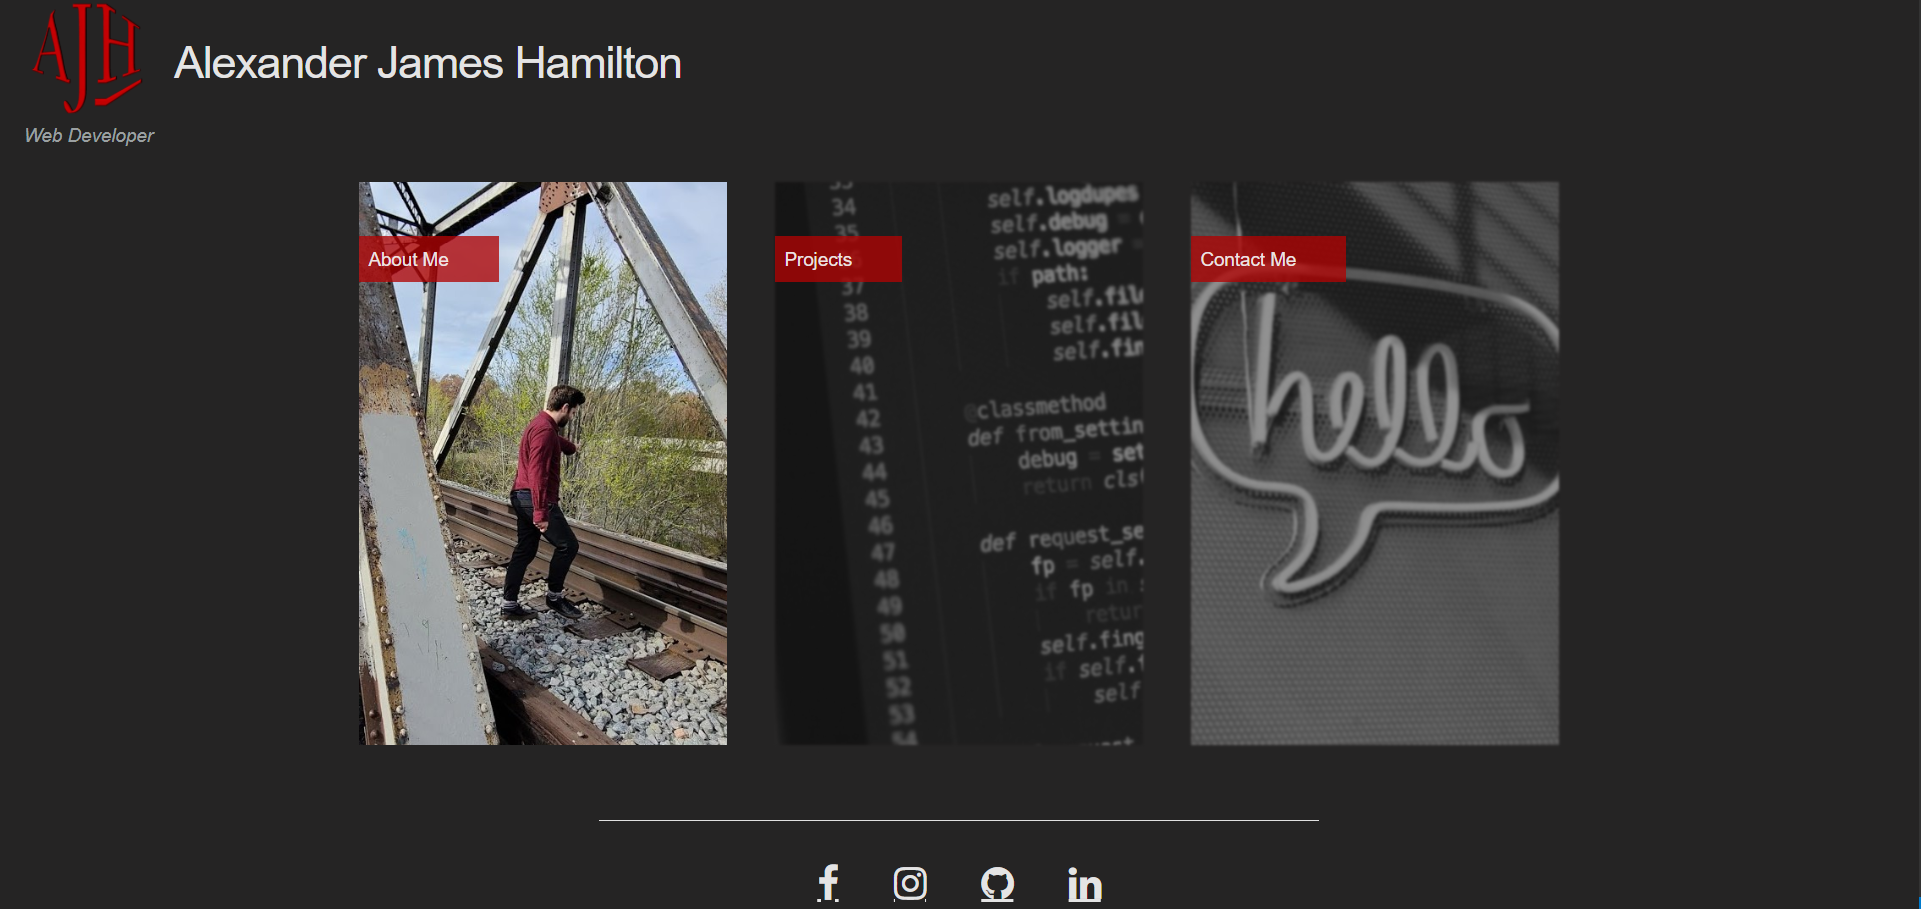
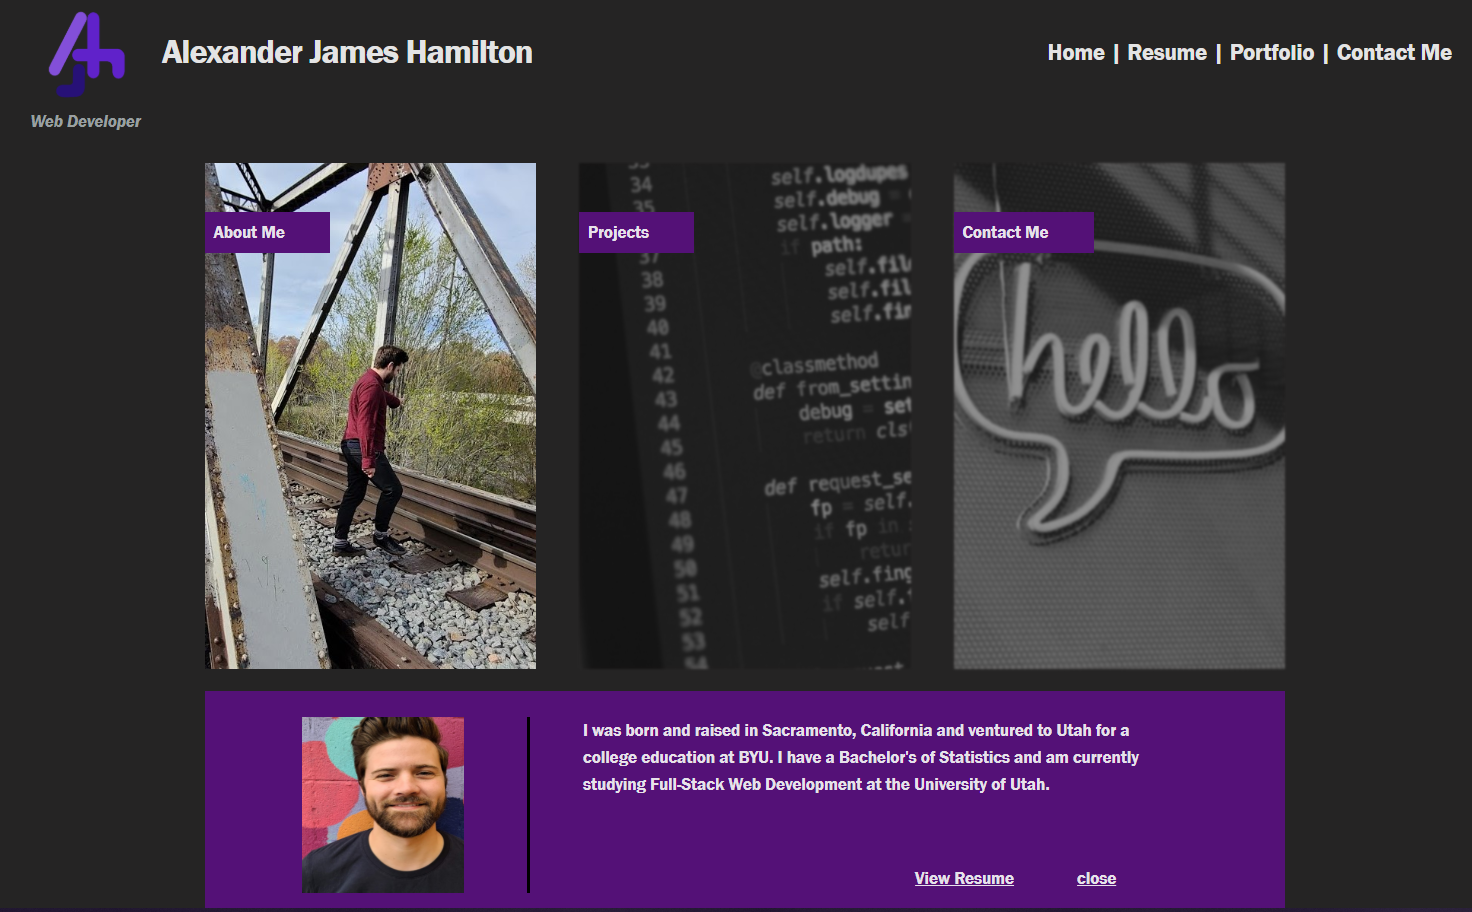
Completed portfolio page template and added css functionality. Routing fixed. Branding coloration adjusted.

diff --git a/assets/html/portfolio.html b/assets/html/portfolio.html
@@ -9,18 +9,18 @@
     <link rel="stylesheet" href="https://cdnjs.cloudflare.com/ajax/libs/font-awesome/4.7.0/css/font-awesome.min.css">
     <link rel="stylesheet" href="./../css/portfolio.css">
     <!-- Metadata Title -->
-    <link rel="icon" href="./../images/my_logo.png">
+    <link rel="icon" href="./../images/my_logo_2.png">
     <title>Alex's Portfolio</title>
 </head>
 <body>
     <!-- Nav Bar -->
     <nav class="row u-full-width titlebar">
         <div class="twelve columns">
-            <img class="ajh" src="./../images/my_logo.png" alt="AJH Logo">
+            <img class="ajh" src="./../images/my_logo_2.png" alt="AJH Logo">
             <div class="nav_options">
                 <a class="nav_options_text" href="./../../index.html">Home | </a>
-                <a class="nav_options_text" href="#">Resume | </a>
-                <a class="nav_options_text" href="./assets/html/projects.html"> Portfolio | </a>
+                <a class="nav_options_text" href="./../images/resume.pdf">Resume | </a>
+                <a class="nav_options_text" href="#"> Portfolio | </a>
                 <a class="nav_options_text" href="#"> Contact Me</a>
             </div>
         </div>
@@ -30,17 +30,57 @@
 
     <div class="container">
 
-        <section class="row portfolio_item pantree_section">
-            <div class="four columns">
+        <section class="row portfolio_item" id="pantree_section">
+            <div class="four columns img_section" id="pantree_img_section">
                 <div id="pantree_img"></div>
+                <span class="image_label">Pantree</span>
+            </div>
+            <div class="eight columns">
+                <h2 class="portfolio_item_title">
+                    Pantree
+                </h2>
+                <p class="portfolio_item_text">
+                    Pantree is a web application designed to optimize and simplify recipe searching and meal planning for individuals and families. Pantree specifically helps users cook with the food they have in their home, organizing their pantry items by expiration date and finding recipe results from the items in the home.
+                </p>
+                <a href="https://github.com/brentp24/pantry/tree/master/controllers" class="learn_more_atag">Learn More</a>
             </div>
         </section>
 
+        <hr class="sep_hr">
 
+        <section class="row portfolio_item" id="readme_section">
+            <div class="eight columns">
+                <h2 class="portfolio_item_title">
+                    README Generator
+                </h2>
+                <p class="portfolio_item_text">
+                    README Generator is a node.js application used to create quick, simple README.md file for your projects. The application was originally built to run in a node environment. I am currently developing a front end website for the application to make it more accessable and appealing to developers.
+                </p>
+                <a href="https://github.com/ajhami/README_generator" class="learn_more_atag">Learn More</a>
+            </div>
+            <div class="four columns img_section" id="readme_img_section">
+                <div id="readme_img"></div>
+                <span class="image_label">README Generator</span>
+            </div>
+        </section>
 
+        <hr class="sep_hr">
 
-
-
+        <section class="row portfolio_item" id="celeb_section">
+            <div class="four columns img_section" id="celeb_img_section">
+                <div id="celeb_img"></div>
+                <span class="image_label">Celebrity Twin</span>
+            </div>
+            <div class="eight columns">
+                <h2 class="portfolio_item_title">
+                    Celebrity Twin
+                </h2>
+                <p class="portfolio_item_text">
+                    Celebrity is an entertainment application where one can upload an image of themself and discover their celebrity doppelgänger! This application demostrates the implentation of basic front-end web design, including html/css, jQuery, and AJAX.
+                </p>
+                <a href="https://github.com/ajhami/celebrity_twin" class="learn_more_atag">Learn More</a>
+            </div>
+        </section>
 
 
 
@@ -64,6 +104,6 @@
 
 
     <script src="https://code.jquery.com/jquery-3.4.1.min.js"></script>
-    <script src="./../javaScript/index.js"></script>
+    <script src="./../javaScript/portfolio.js"></script>
 </body>
 </html>

diff --git a/assets/css/portfolio.css b/assets/css/portfolio.css
@@ -26,53 +26,21 @@ body {
     width: 60%;
 }
 
-/* DEFAULT SIZE */
 .portfolio_item {
-    height: 20.0rem;
-    width: 100%;
-    /* margin-top: 2.0rem; */
+    margin-bottom: 1.0rem;
 }
 
-/* CLICK SIZE */
-/* #about_main, #projects_main, #contact_main {
-    height: 40.0rem;
-} */
-
-#pantree_img {
-    background-image: url(./../images/pantree_preview_lg.png);
+#pantree_section {
+    /* height: 20.0rem; */
+    margin-top: 3.0rem;
 }
-
-#projects_box {
-    background-image: url(./../images/project_main_sm.jpg);
-}
-
-#contact_box {
-    background-image: url(./../images/contact_main_sm.jpg);
-}
-
 
 /* DEFAULT SIZE */
-#pantree_img {
-    height: 100%;
-    width: 100%;
-    background-position: center;
-    background-repeat: no-repeat;
-    background-size: cover;
+.img_section {
+    height: 20.0rem;
 }
 
-
-/* CLICK SIZE */
-/* #about_box, #projects_box, #contact_box {
-    height: 50%;
-} */
-
-
-#about_box:hover, #projects_box:hover, #contact_box:hover {
-    filter: none;
-}
-
-/* DEFAULT POSITION */
-#about_title, #projects_title, #contact_title {
+.image_label {
     color: #f3f3f3ec;
     background-color: #541177;
     padding: 1.0rem 4.0rem 1.0rem 0.75rem;
@@ -80,40 +48,55 @@ body {
     bottom: 15.0rem;
 }
 
-/* CLICK POSITION */
-/* .topic_title {
-    bottom: 35.0rem;
-} */
+#pantree_img_section {
+    float: left;
+}
 
-#about_content, #projects_content, #contact_content {
-    display: none;
-    height: 50%;
+#readme_img_section {
+    float: right;
+}
+
+#pantree_img {
+    background-image: url(./../images/pantree_preview_lg.png);
+}
+
+#readme_img {
+    background-image: url(./../images/readme_preview_lg.png);
+}
+
+#celeb_img {
+    background-image: url(./../images/celeb_preview_lg.png);
+}
+
+/* DEFAULT SIZE */
+#pantree_img, #readme_img, #celeb_img {
+    height: 100%;
     width: 100%;
-    background-color: #541177;
+    background-position: center;
+    background-repeat: no-repeat;
+    background-size: cover;
+    filter: blur(1px)
+            opacity(0.5)
+            grayscale(50%);
 }
 
-#about_p, #projects_p, #contact_p {
-    float: left;
-    width: 80%;
-    height: 70%;
-    margin-left: 10%;
-    margin-top: 2.5%;
-    font-size: 1.1rem;
-}
-
-#about_select, #projects_select, #contact_select {
-    float: left;
-    width: 50%;
-    height: 15%;
-    margin-top: 2.5%;
-    margin-left: 47.5%;
-}
-
-/* .topic_box:hover {
+#pantree_img:hover, #readme_img:hover, #celeb_img:hover {
     filter: none;
-} */
+}
 
-#content_lg {
+.learn_more_atag {
+    display: none;
+}
+
+.learn_more_atag:hover {
+    display: none;
+}
+
+.portfolio_item_title, .portfolio_item_text {
+    display: none;
+}
+
+.sep_hr {
     display: none;
 }
 
@@ -136,33 +119,6 @@ body {
 .fa:hover {
     color: #541177;
 }
-
-#about_option1box, #projects_option1box, #contact_option1box {
-    float: left;
-    width: 45%;
-    height: 100%;
-    margin-left: 2.5%;
-    margin-right: 5%;
-}
-
-#about_option2box, #projects_option2box, #contact_option2box {
-    float: left;
-    width: 45%;
-    height: 100%;
-}
-
-#aboutOption1, #projectsOption1, #contactOption1, #aboutOption2, #projectsOption2, #contactOption2 {
-    text-align: center;
-    justify-items: center;
-    color: #f3f3f3ec;
-    font-size: 1.0rem;
-}
-
-#aboutOption1:hover, #projectsOption1:hover, #contactOption1:hover, #aboutOption2:hover, #projectsOption2:hover, #contactOption2:hover {
-    color: #7700ff;
-}
-
-
 
 /* Switching from small to large screens */
 @media (min-width: 550px) {
@@ -203,6 +159,40 @@ body {
 
     .nav_options_text:hover {
         color: #541177;
+    }
+
+    .image_label {
+        display: none;
+    }
+
+    #pantree_img, #readme_img, #celeb_img {
+        filter: none;
+    }
+
+    .learn_more_atag {
+        display: block;
+        color: #f3f3f3ec;
+        font-size:  1.5rem;  
+        text-decoration: none;
+        text-align: right; 
+        float: right; 
+        margin-right: 2.0rem;
+    }
+    
+    .learn_more_atag:hover {
+        display: block;
+        color: #541177;
+    }
+    
+    .portfolio_item_title, .portfolio_item_text {
+        display: block;
+    }
+
+    .sep_hr {
+        display: block;
+        color: #f3f3f3ec;
+        margin: 4.0rem auto;
+        width: 100%;
     }
 
 }

diff --git a/assets/javaScript/index.js b/assets/javaScript/index.js
@@ -1,4 +1,4 @@
-console.log("JS connected!");
+// console.log("JS connected!");
 
 // const contactText = `Alex's Contact Information
 
@@ -27,7 +27,6 @@ let fillIn = {
     contact : {
         img : "./assets/images/email.jpg",
         p : 'Wanna chat? Select "Send a Message" below to reach me via email. You can also call or text me at (916) 541-1880. I look forward to hearing from you!',
-        // p: contactText,
         option1 : {
             title : "Send a Message",
             href : "#"
@@ -41,20 +40,20 @@ let fillIn = {
 
 // Media Query Match Variable
 //let mq = window.matchMedia("min-width: 550px");
-console.log("windowWidth = ", $(window).width());
+// console.log("windowWidth = ", $(window).width());
 
 // For whatever reason, the windowWidth variable reads 534 at 550px
 
 // Media Query Change Event Listener
 $(window).resize(function() {
 
-    console.log("actual = ", $(window).width());
+    // console.log("actual = ", $(window).width());
     if($(window).width() <= 534){
-        console.log("Small Screen");
+        // console.log("Small Screen");
         clearContentLarge();
     }
     else {
-        console.log("Large Screen");
+        // console.log("Large Screen");
         clearContentSmall();
     }
 

diff --git a/index.html b/index.html
@@ -9,14 +9,14 @@
     <link rel="stylesheet" href="https://cdnjs.cloudflare.com/ajax/libs/font-awesome/4.7.0/css/font-awesome.min.css">
     <link rel="stylesheet" href="./assets/css/style.css">
     <!-- Metadata Title -->
-    <link rel="icon" href="./assets/images/my_logo.png">
+    <link rel="icon" href="./assets/images/my_logo_2.png">
     <title>Hi, I'm Alex!</title>
 </head>
 <body>
     <!-- Nav Bar -->
     <nav class="row u-full-width titlebar">
         <div class="six columns">
-            <img class="ajh" src="./assets/images/my_logo.png" alt="AJH Logo">
+            <img class="ajh" src="./assets/images/my_logo_2.png" alt="AJH Logo">
             <h4 class="tb_name">Alexander James Hamilton</h3>
             <p class="tb_title">Web Developer</p>
         </div>

diff --git a/assets/javaScript/portfolio.js b/assets/javaScript/portfolio.js
@@ -1,0 +1,19 @@
+
+
+$(".ajh").on("click", function () {
+    window.location.replace("./../../index.html");
+});
+
+
+$("#pantree_img_section").on("click", function () {
+    window.location.replace("https://github.com/brentp24/pantry/tree/master/controllers");
+});
+
+
+$("#readme_img_section").on("click", function () {
+    window.location.replace("https://github.com/ajhami/README_generator");
+});
+
+$("#celeb_img_section").on("click", function () {
+    window.location.replace("https://github.com/ajhami/celebrity_twin");
+});
